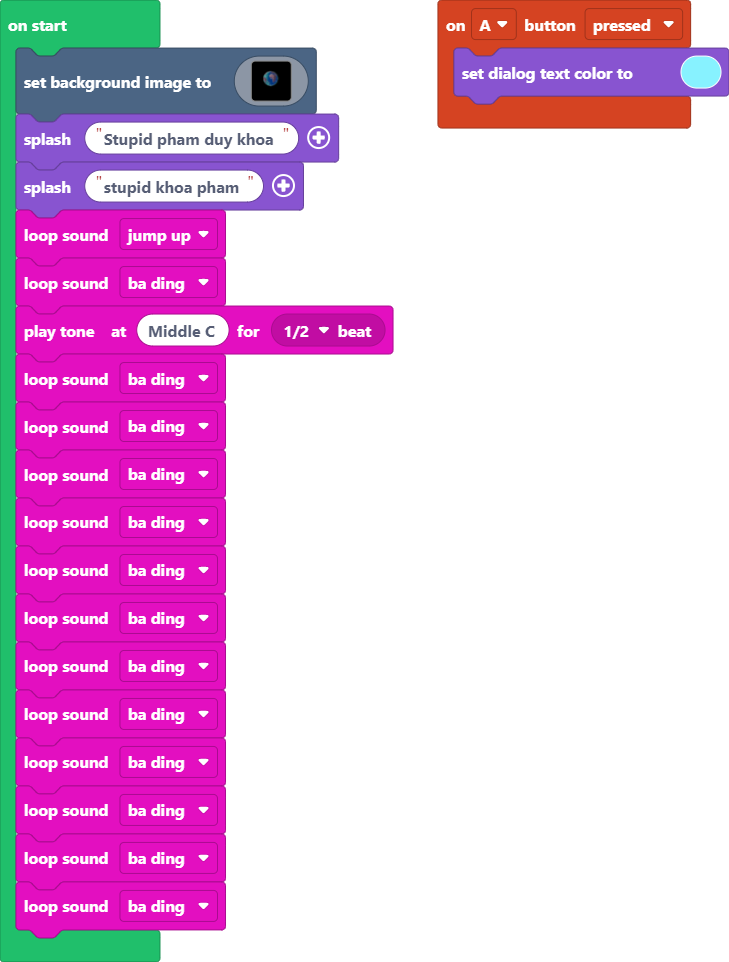
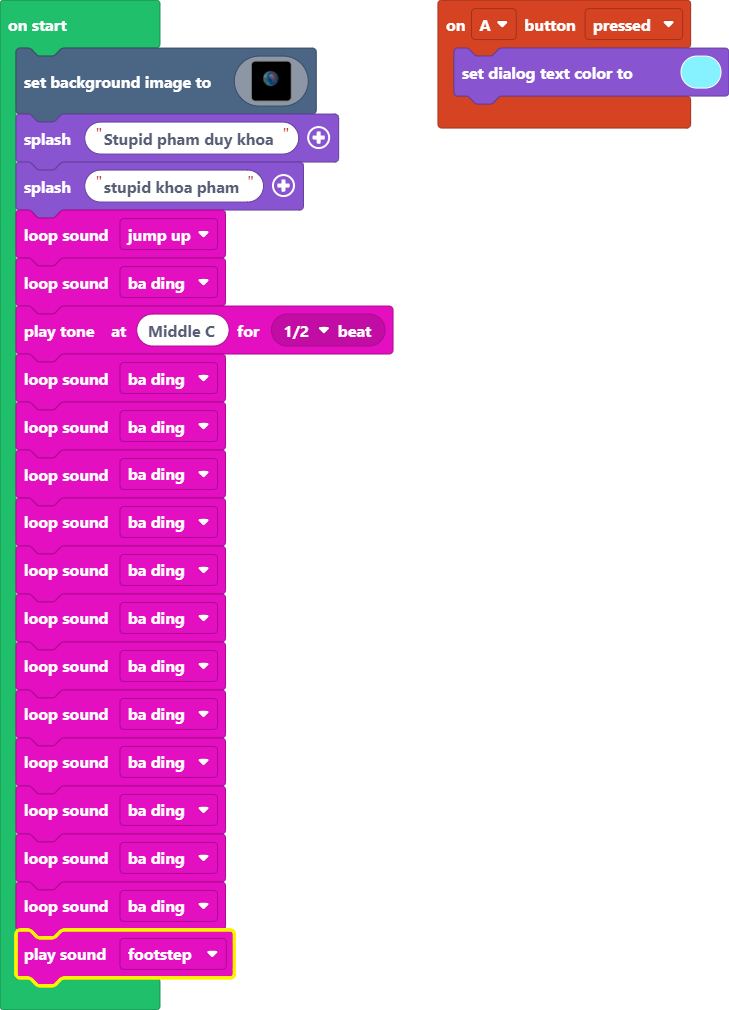
add footstep

Changed region(s): [[0.0, 0.0, 0.5432, 0.9979], [0.6036, 0.0, 1.0, 0.1559], [0.6036, 0.0, 0.6337, 0.0312]]

diff --git a/main.ts b/main.ts
@@ -140,3 +140,4 @@ music.baDing.loop()
 music.baDing.loop()
 music.baDing.loop()
 music.baDing.loop()
+music.footstep.play()
